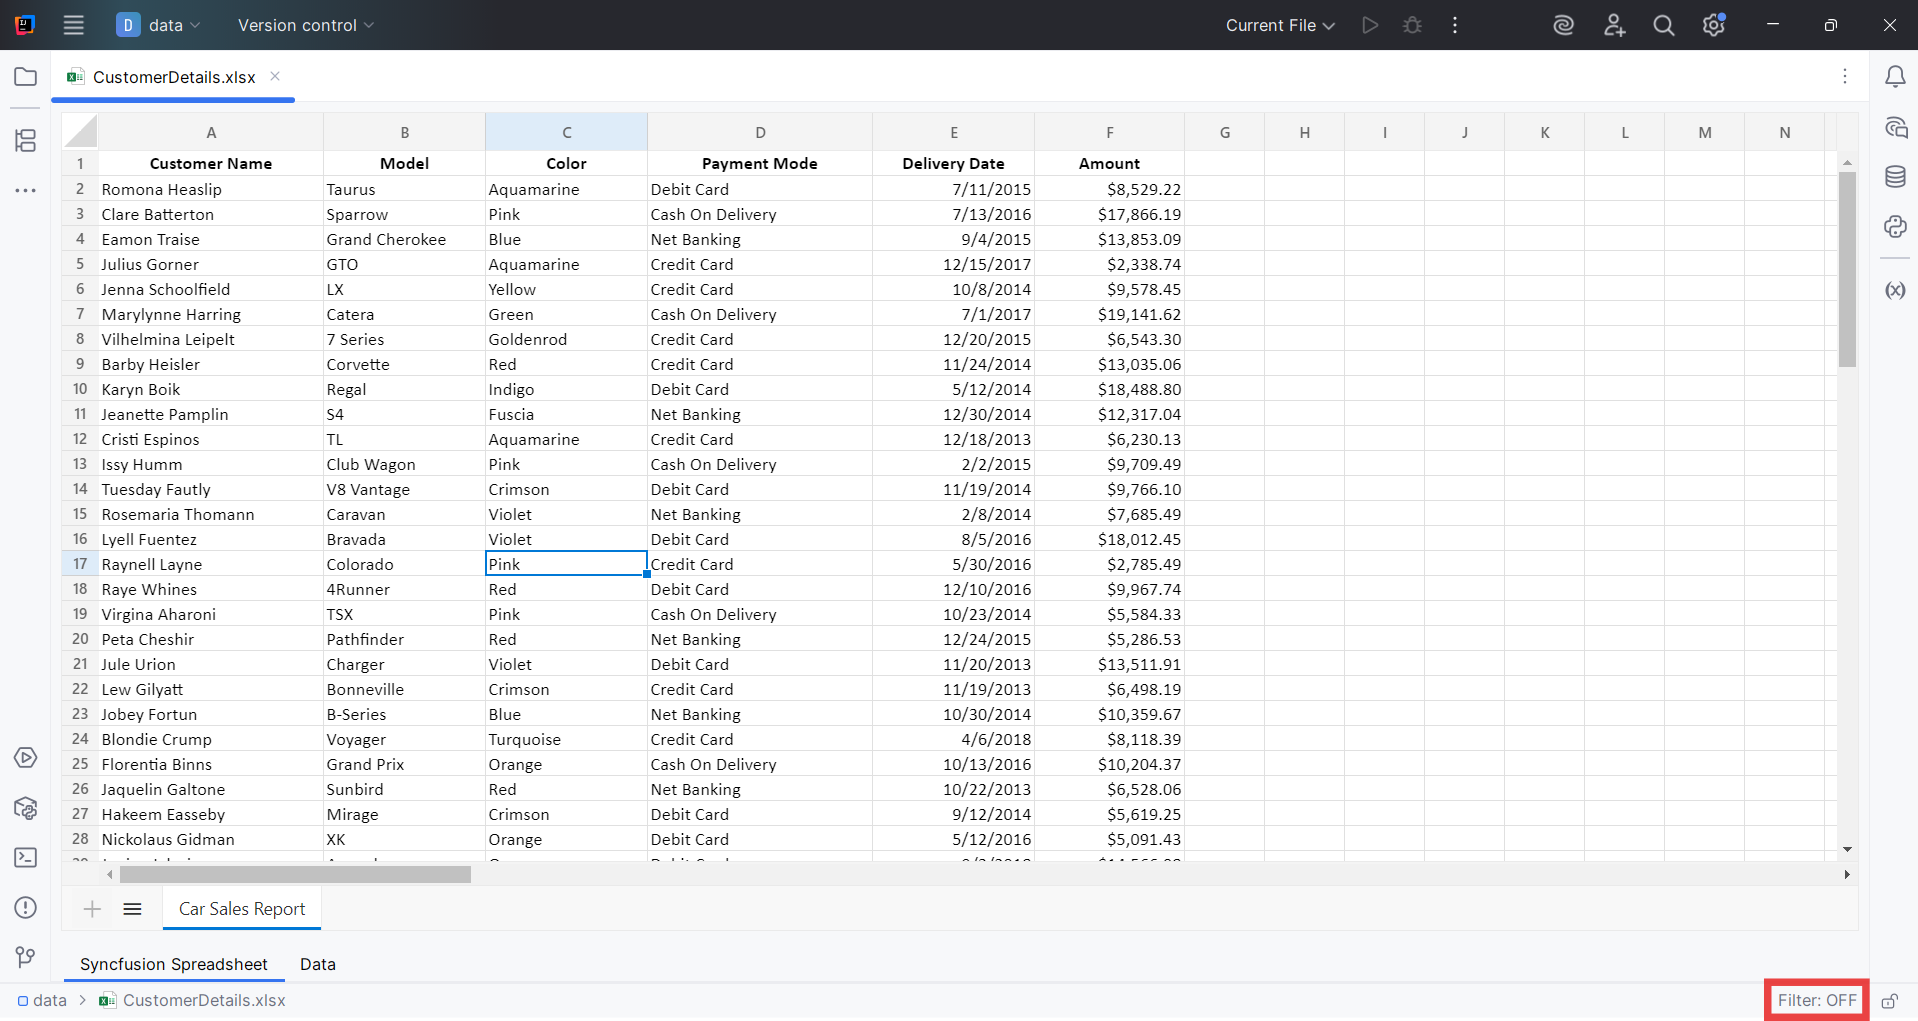
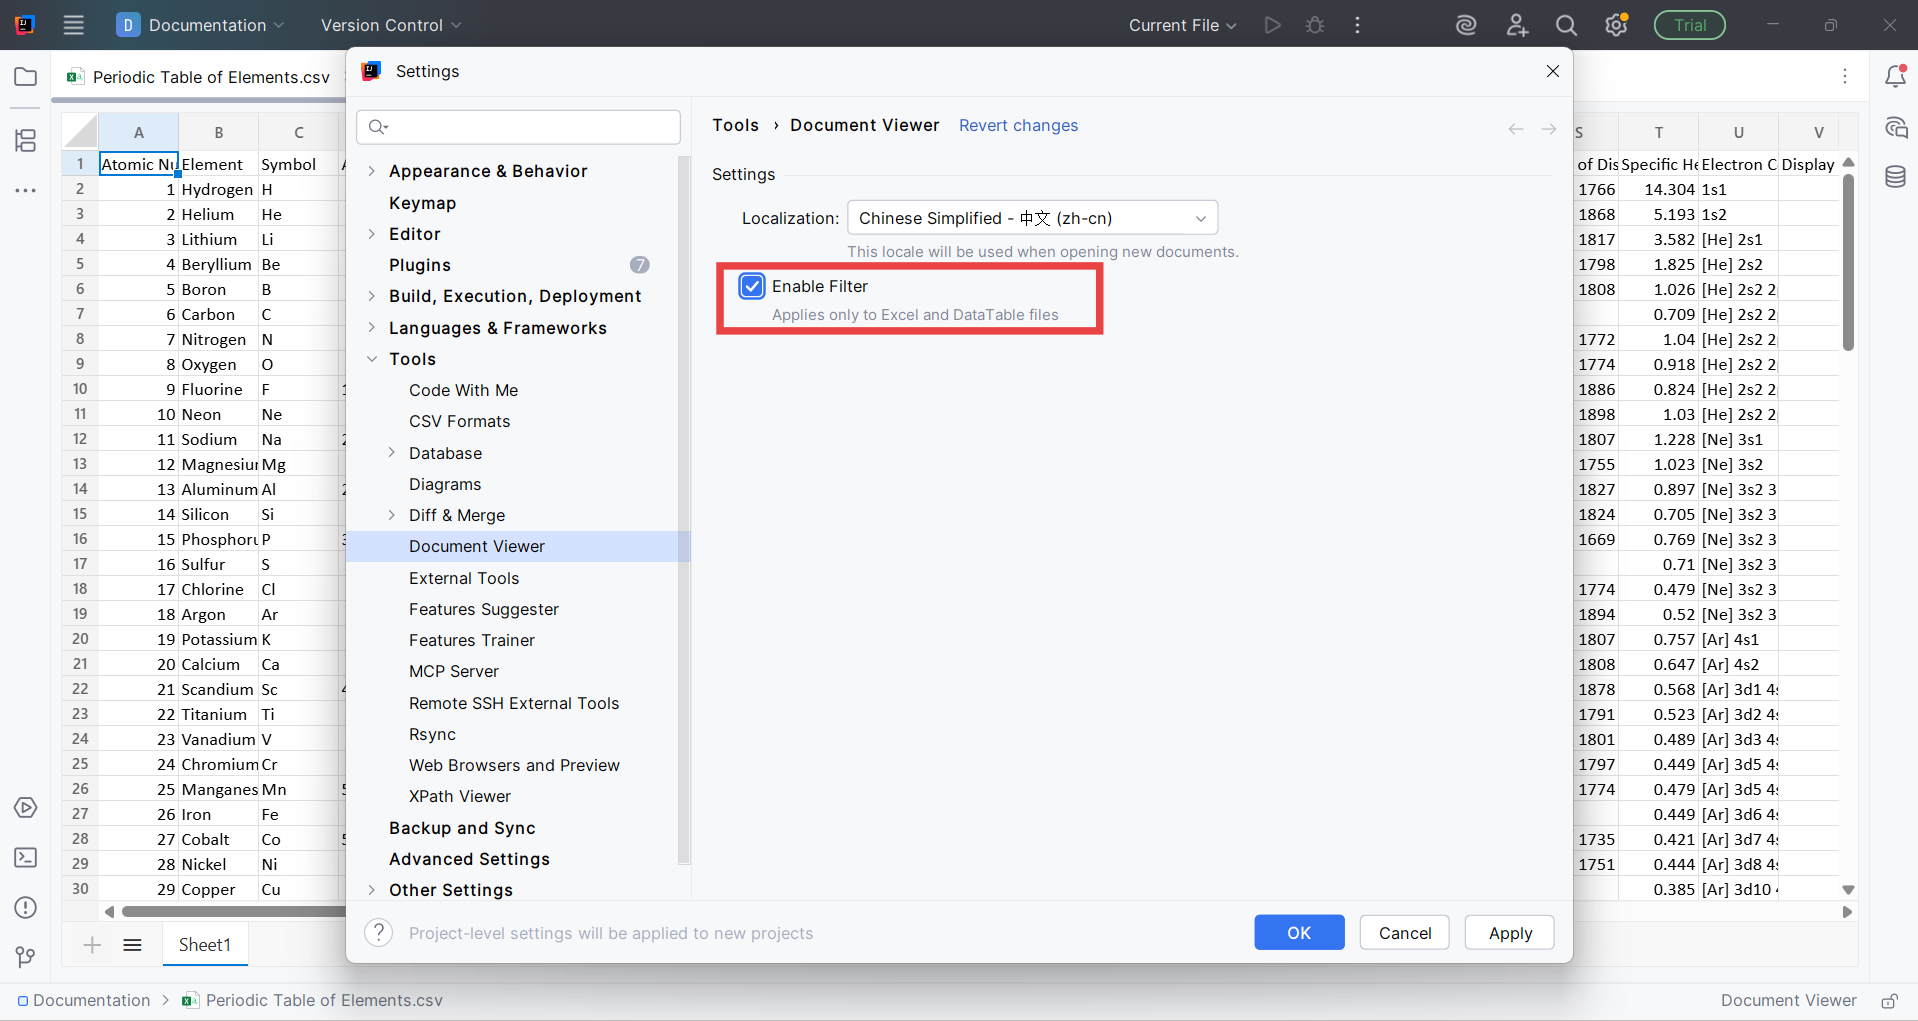
jetbrains changes

diff --git a/Extension/Document-Viewer-Extension/JetBrains/configuration-options.md b/Extension/Document-Viewer-Extension/JetBrains/configuration-options.md
@@ -13,10 +13,23 @@ documentation: ug
 
 You can configure sorting and filtering for the first row of your worksheet.
 
-> **Note:** Document Viewer enables the filtering and sorting option only when the spreadsheet files are open.
+- **Configure Sorting and Filtering :**
 
-- **Configure via Status Bar**:
-
-  After opening the file, click `Filter` in the bottom right corner of the status bar to configure sorting and filtering on the first row of the worksheet for quicker access.
+  - After opening the file, click `Document Viewer` in the bottom right corner of the status bar or go to `Settings > Tools > Document Viewer`  to configure sorting and filtering on the first row of the worksheet for quicker access.
   
     ![Filtering-Toolbar](images/Filtering-Toolbar.png)
+
+> **Note:** Document Viewer enables the filtering and sorting option only for the spreadsheet files.
+
+
+### Localization
+
+You can apply your language preferences effectively.
+
+  - **Configure Localization :**
+
+    - After opening the file, click `Document Viewer` in the status bar or go to `Settings > Extensions > Document Viewer` to configure language preferences.
+
+      ![localization](images/localization.gif)
+
+> **Note:** Apart from English, the Document Viewer supports 32 additional languages such as Arabic, Bulgarian, Chinese Simplified, Chinese Traditional, Croatian, Czech, Danish, etc., ensuring a localized experience for global users.

diff --git a/Extension/Document-Viewer-Extension/JetBrains/getting-started.md b/Extension/Document-Viewer-Extension/JetBrains/getting-started.md
@@ -29,6 +29,16 @@ documentation: ug
 
 ---
 
+### Localization
+
+Apply your preferred language settings seamlessly for a personalized experience.
+
+> **Note:** Apart from English, the Document Viewer supports 32 additional languages such as Arabic, Bulgarian, Chinese Simplified, Chinese Traditional, Croatian, Czech, Danish, etc., ensuring a localized experience for global users.
+
+![localization](images/localization.gif)
+
+---
+
 ### Sorting and Filtering in Spreadsheet
 
 Use the filter icons in the column headers to sort and filter data. Right-click a cell or header for advanced options.

diff --git a/Extension/Document-Viewer-Extension/JetBrains/overview.md b/Extension/Document-Viewer-Extension/JetBrains/overview.md
@@ -19,4 +19,6 @@ The **Document Viewer** plugin provides seamless access to view Word, Excel, PDF
 
 - **Edit**: Edit and save Word, Excel, Markdown, CSV, and TSV files.
 
+- **Localization**: Apply your preferred language settings seamlessly for a personalized experience.
+
 - **Sorting and Filtering**: Organize data efficiently using sorting and filtering options in column headers for spreadsheet files.
